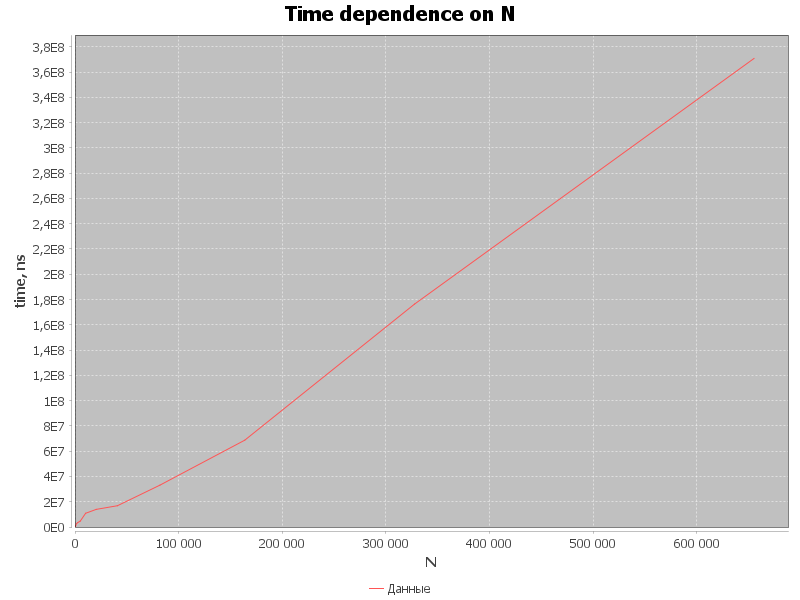
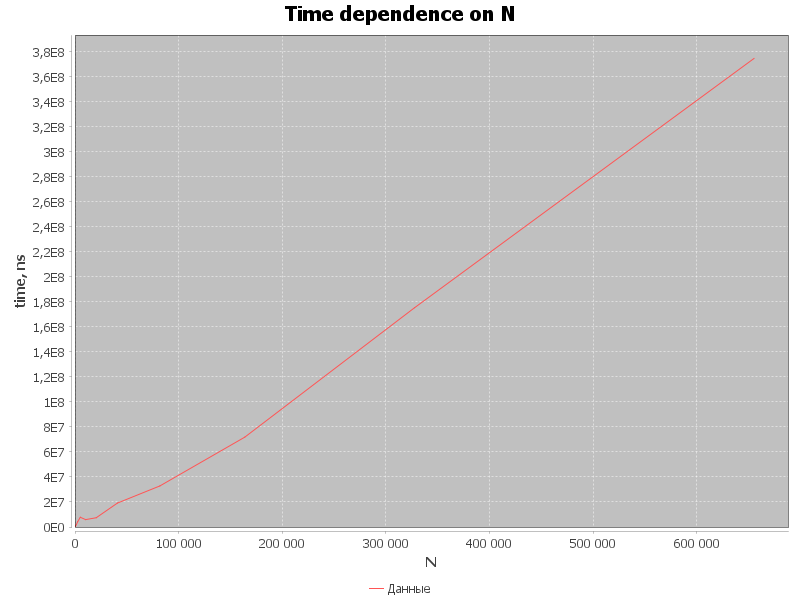
BubbleSort for small array size optimization

diff --git a/src/main/java/com/algo/sorting/SortingAlgorithms.java b/src/main/java/com/algo/sorting/SortingAlgorithms.java
@@ -18,6 +18,11 @@ public class SortingAlgorithms {
                                                               int right,
                                                               int n,
                                                               int depthLimit) {
+        if (array.length < 20) {
+            bubbleSort(array);
+            return;
+        }
+
         if (depthLimit == 0) {
             mergeSort(array, array.length);
             return;
@@ -56,7 +61,7 @@ public class SortingAlgorithms {
         array[j] = temp;
     }
 
-    public static <T extends Comparable<T>> void merge(T[] arr, T[] l, T[] r, int left, int right) {
+    private static <T extends Comparable<T>> void merge(T[] arr, T[] l, T[] r, int left, int right) {
         int i = 0;
         int j = 0;
         int k = 0;
@@ -79,7 +84,7 @@ public class SortingAlgorithms {
         return (T[]) Array.newInstance(clazz, size);
     }
 
-    public static <T extends Comparable<T>> void mergeSort(T[] arr, int n) {
+    private static <T extends Comparable<T>> void mergeSort(T[] arr, int n) {
         if (n < 2) {
             return;
         }
@@ -93,5 +98,24 @@ public class SortingAlgorithms {
         mergeSort(r, n - mid);
 
         merge(arr, l, r, mid, n - mid);
+    }
+
+    private static <T extends Comparable<T>> void bubbleSort(T[] arr) {
+        boolean swapped;
+        int n = arr.length;
+        for (int i = 0; i < n - 1; i++) {
+            swapped = false;
+            for (int j = 0; j < n - i - 1; j++) {
+                if (arr[j].compareTo(arr[j + 1]) > 0) {
+                    T temp = arr[j];
+                    arr[j] = arr[j + 1];
+                    arr[j + 1] = temp;
+                    swapped = true; // Установим флаг, что была перестановка
+                }
+            }
+            if (!swapped) {
+                break;
+            }
+        }
     }
 }
